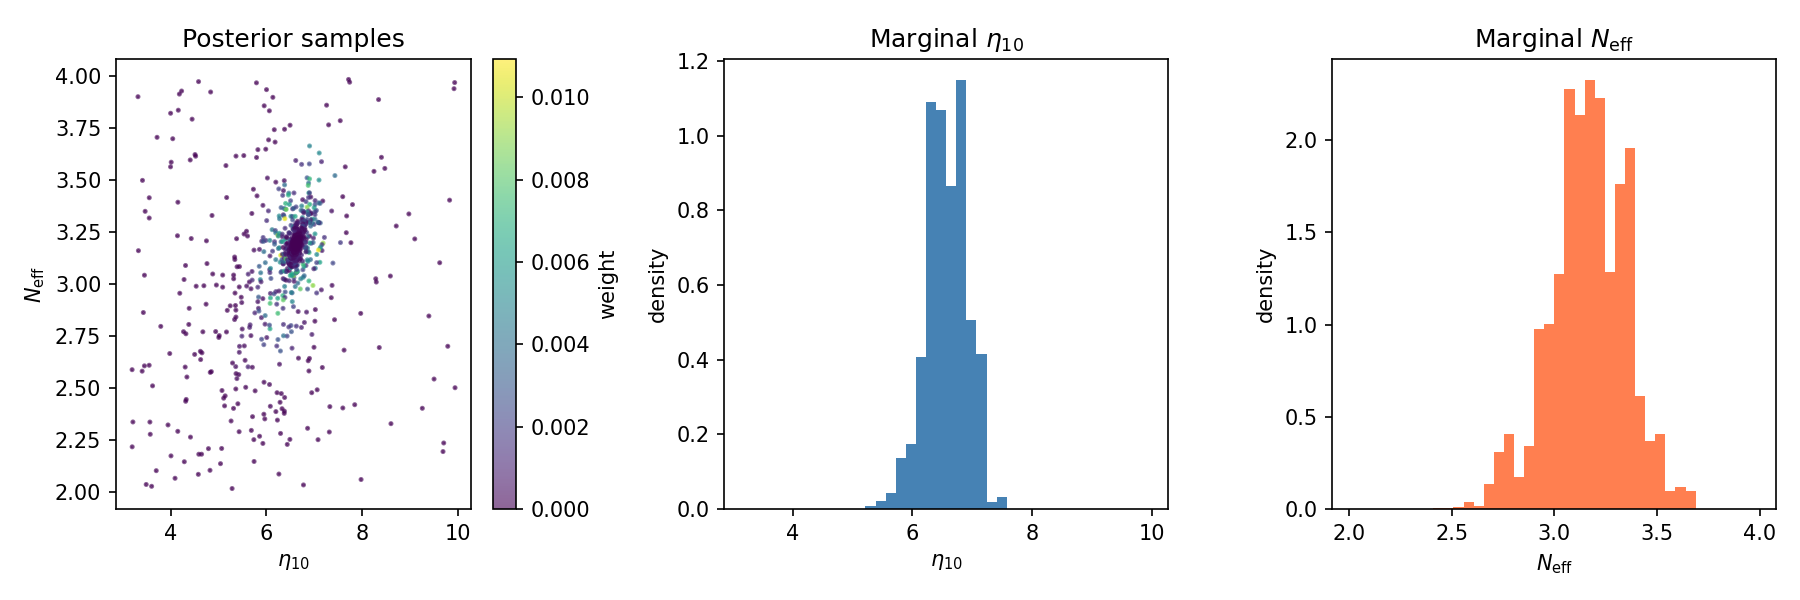
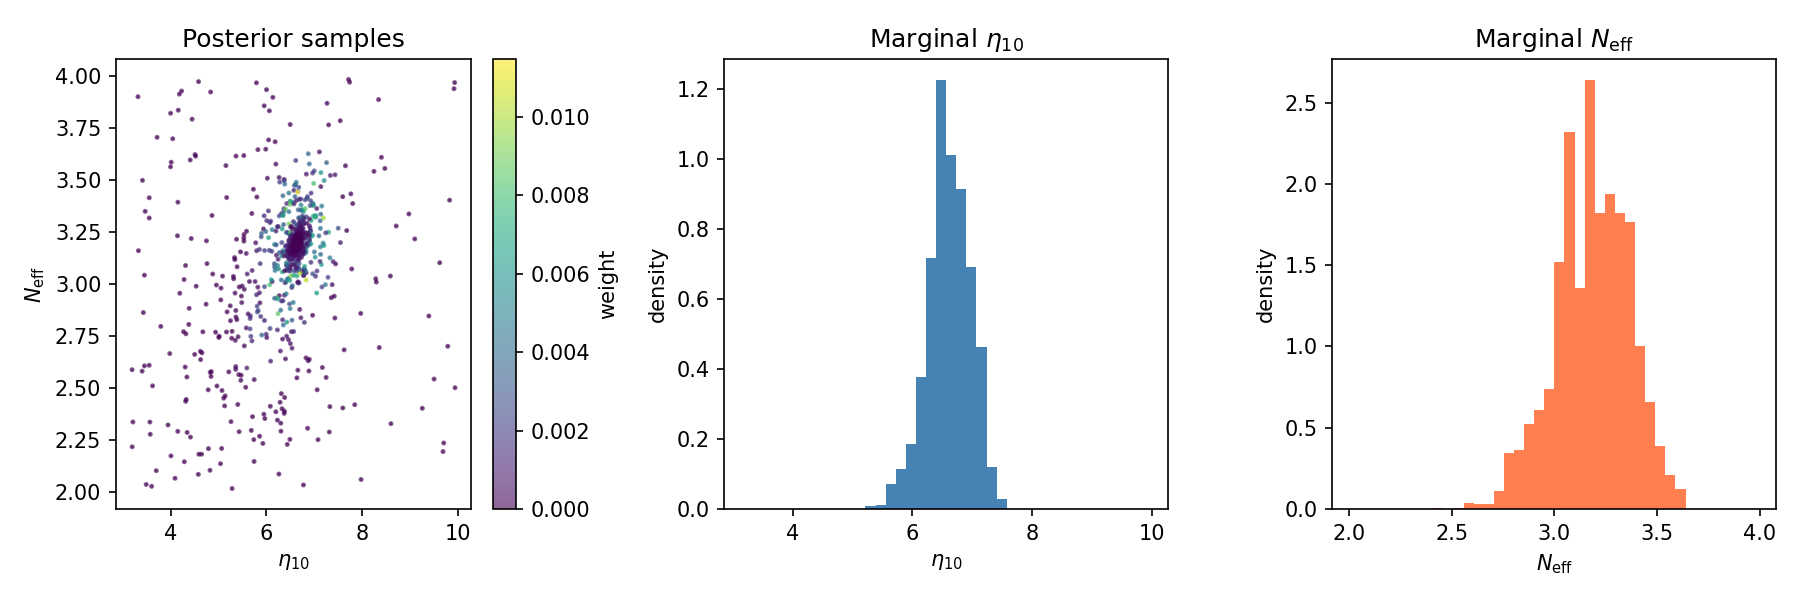
Use 32 bit LU precision in examples

diff --git a/examples/21cm_igm_evolution/main.py b/examples/21cm_igm_evolution/main.py
@@ -215,7 +215,7 @@ def make_solver(backend):
     if backend == "modax":
         return lambda f, y0, ts, p: rodas5P_solve(
             f, y0, ts, p,
-            lu_precision="fp64",
+            lu_precision="fp32",
             rtol=SOLVER_RTOL, atol=SOLVER_ATOL,
             first_step=SOLVER_FIRST_STEP, max_steps=SOLVER_MAX_STEPS,
             error_weights=jnp.array([1.0, 0.2, 0.2], dtype=jnp.float64),
@@ -249,7 +249,7 @@ def solve_histories(params, n_save=N_SAVE, batch_size=None, backend="modax"):
             initial_state(),
             u_span,
             params,
-            lu_precision="fp64",
+            lu_precision="fp32",
             batch_size=batch_size,
             rtol=SOLVER_RTOL,
             atol=SOLVER_ATOL,

diff --git a/examples/bbn_estimation/main.py b/examples/bbn_estimation/main.py
@@ -172,6 +172,7 @@ def predict_abundances(params):
         initial_conditions(),
         X_SAVE,
         params,
+        lu_precision="fp32",
         rtol=SOLVER_RTOL,
         atol=SOLVER_ATOL,
         first_step=SOLVER_FIRST_STEP,
@@ -202,7 +203,7 @@ def make_solver(backend):
     if backend == "modax":
         return lambda f, y0, ts, p: rodas5P_solve(
             f, y0, ts, p,
-            lu_precision="fp64",
+            lu_precision="fp32",
             rtol=SOLVER_RTOL, atol=SOLVER_ATOL,
             first_step=SOLVER_FIRST_STEP, max_steps=SOLVER_MAX_STEPS,
         )